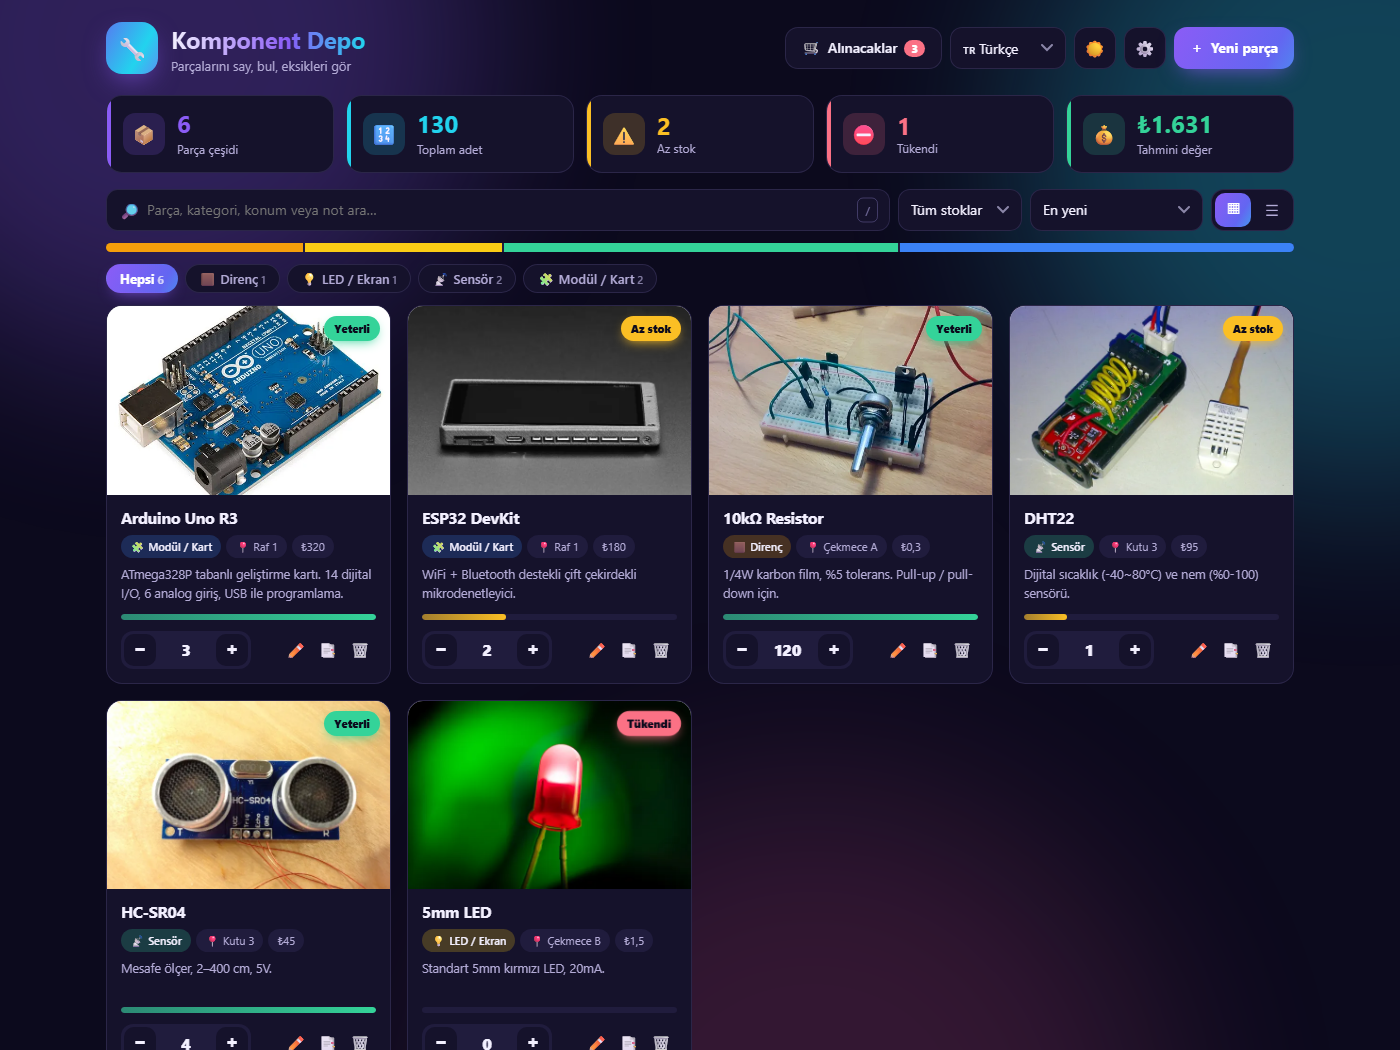
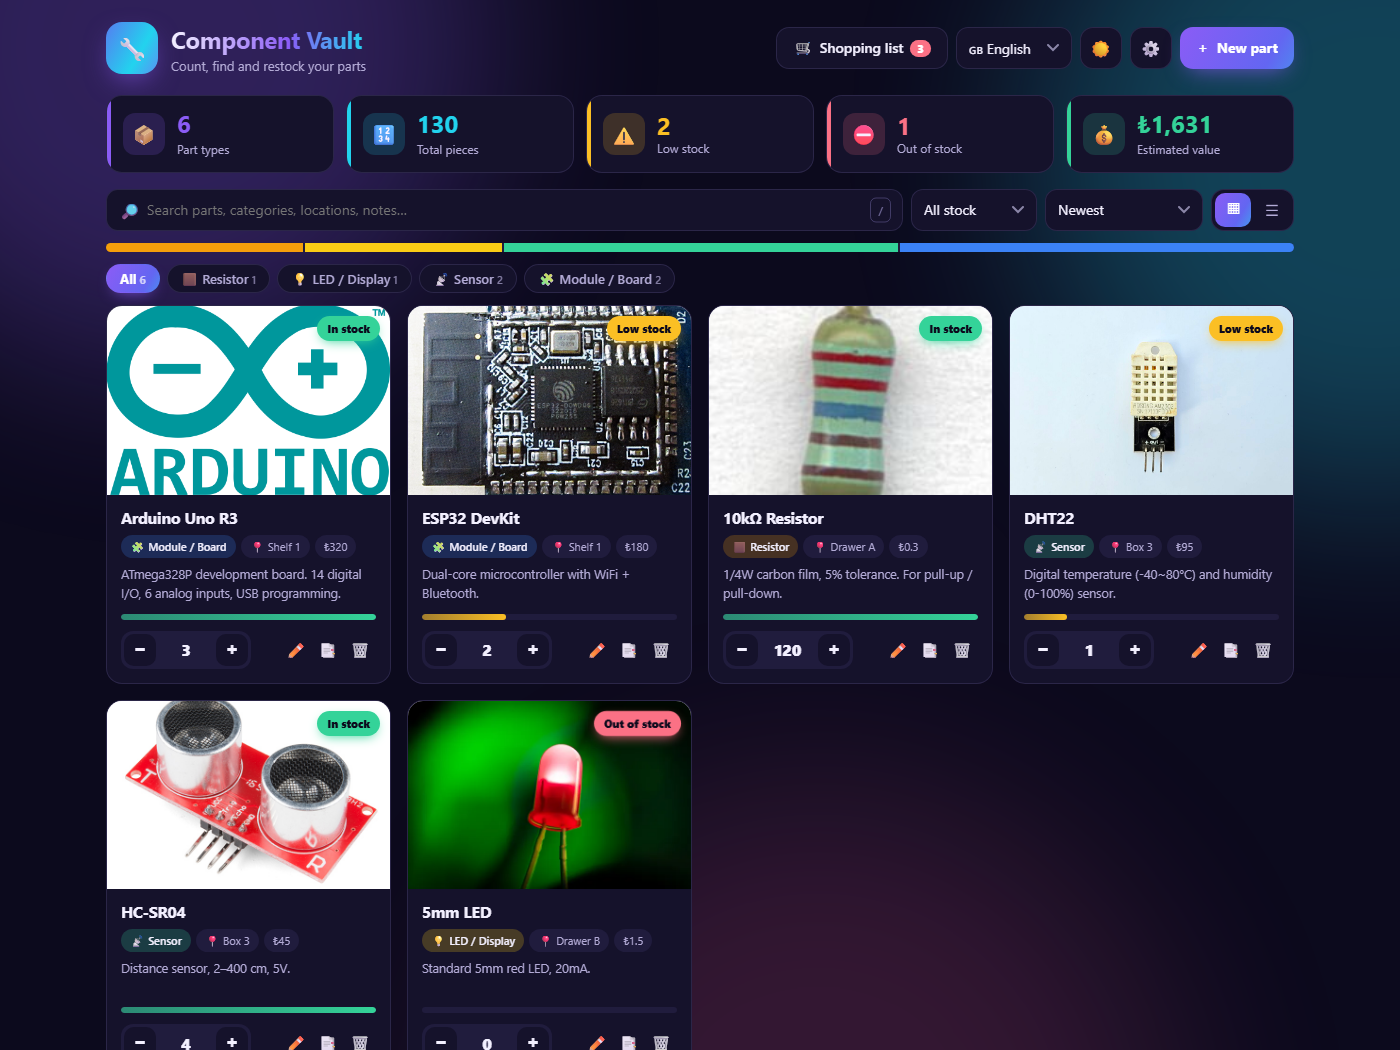
Sitenin varsayılan dili İngilizce, Türkçe ve Almanca seçenek olarak
- Varsayılan dil English; Türkçe ve Deutsch menüden seçilebilir, seçim hatırlanır
- Örnek verilerin konum adları da seçilen dile çevrilir
- ?lang= parametresi örnek veriler oluşturulmadan önce uygulanır
- README Türkçe kaldı; dil notları ve ekran görüntüleri güncellendi

diff --git a/index.html b/index.html
@@ -1,5 +1,5 @@
 <!DOCTYPE html>
-<html lang="tr" data-theme="dark">
+<html lang="en" data-theme="dark">
 <head>
 <meta charset="UTF-8">
 <meta name="viewport" content="width=device-width,initial-scale=1">
@@ -290,7 +290,7 @@ mark{background:color-mix(in srgb,var(--p2) 35%,transparent);color:inherit;borde
     <div class="acts">
       <button class="btn" onclick="shopList()">🛒 <span class="lblx" data-i="shop"></span><span class="cnt" id="shopN"></span></button>
       <select id="langSel" onchange="setLang(this.value)" aria-label="Language">
-        <option value="tr">🇹🇷 Türkçe</option><option value="en">🇬🇧 English</option><option value="de">🇩🇪 Deutsch</option>
+        <option value="en">🇬🇧 English</option><option value="tr">🇹🇷 Türkçe</option><option value="de">🇩🇪 Deutsch</option>
       </select>
       <button class="btn icon" id="thm" onclick="toggleTheme()" data-it="theme">☀</button>
       <button class="btn icon" onclick="openSettings()" data-it="settings">⚙</button>
@@ -350,7 +350,7 @@ backupDone:'Yedek indirildi',importQ:'{n} parça yüklenecek. Mevcut liste deği
 storageFull:'Depolama dolu! Bazı yüklenen fotoğrafları kaldır veya yedek al.',usage:'Kullanılan alan: {u}',
 shortcuts:'Kısayollar:  /  ara  ·  N  yeni parça  ·  Esc  kapat  ·  Shift + (+/−)  10’ar değiştir',gridView:'Kart görünümü',listView:'Liste görünümü',
 c_cap:'Kapasitör',c_res:'Direnç',c_tr:'Transistör',c_ic:'Entegre (IC)',c_led:'LED / Ekran',c_sen:'Sensör',c_mod:'Modül / Kart',c_cab:'Kablo / Konnektör',c_pwr:'Güç',c_mot:'Motor / Röle',c_tool:'Alet / Ekipman',c_oth:'Diğer',
-d1:'ATmega328P tabanlı geliştirme kartı. 14 dijital I/O, 6 analog giriş, USB ile programlama.',d2:'WiFi + Bluetooth destekli çift çekirdekli mikrodenetleyici.',d3:'1/4W karbon film, %5 tolerans. Pull-up / pull-down için.',d4:'Dijital sıcaklık (-40~80°C) ve nem (%0-100) sensörü.',d5:'Standart 5mm kırmızı LED, 20mA.',d6:'Mesafe ölçer, 2–400 cm, 5V.'},
+d1:'ATmega328P tabanlı geliştirme kartı. 14 dijital I/O, 6 analog giriş, USB ile programlama.',d2:'WiFi + Bluetooth destekli çift çekirdekli mikrodenetleyici.',d3:'1/4W karbon film, %5 tolerans. Pull-up / pull-down için.',d4:'Dijital sıcaklık (-40~80°C) ve nem (%0-100) sensörü.',d5:'Standart 5mm kırmızı LED, 20mA.',d6:'Mesafe ölçer, 2–400 cm, 5V.',l1:'Raf 1',l2:'Çekmece A',l3:'Kutu 3',l4:'Çekmece B'},
 en:{app:'Component Vault',tagline:'Count, find and restock your parts',shop:'Shopping list',newPart:'New part',searchPh:'Search parts, categories, locations, notes…',
 allStock:'All stock',st_ok:'In stock',st_low:'Low stock',st_out:'Out of stock',favs:'⭐ Favorites',
 sort_new:'Newest',sort_upd:'Recently updated',sort_az:'Name A–Z',sort_qa:'Qty: low → high',sort_qd:'Qty: high → low',sort_val:'Stock value (high)',
@@ -380,7 +380,7 @@ backupDone:'Backup downloaded',importQ:'Load {n} parts and replace the current l
 storageFull:'Storage full! Remove some uploaded photos or export a backup.',usage:'Storage used: {u}',
 shortcuts:'Shortcuts:  /  search  ·  N  new part  ·  Esc  close  ·  Shift + (+/−)  change by 10',gridView:'Card view',listView:'List view',
 c_cap:'Capacitor',c_res:'Resistor',c_tr:'Transistor',c_ic:'IC / Chip',c_led:'LED / Display',c_sen:'Sensor',c_mod:'Module / Board',c_cab:'Cable / Connector',c_pwr:'Power',c_mot:'Motor / Relay',c_tool:'Tool / Equipment',c_oth:'Other',
-d1:'ATmega328P development board. 14 digital I/O, 6 analog inputs, USB programming.',d2:'Dual-core microcontroller with WiFi + Bluetooth.',d3:'1/4W carbon film, 5% tolerance. For pull-up / pull-down.',d4:'Digital temperature (-40~80°C) and humidity (0-100%) sensor.',d5:'Standard 5mm red LED, 20mA.',d6:'Distance sensor, 2–400 cm, 5V.'},
+d1:'ATmega328P development board. 14 digital I/O, 6 analog inputs, USB programming.',d2:'Dual-core microcontroller with WiFi + Bluetooth.',d3:'1/4W carbon film, 5% tolerance. For pull-up / pull-down.',d4:'Digital temperature (-40~80°C) and humidity (0-100%) sensor.',d5:'Standard 5mm red LED, 20mA.',d6:'Distance sensor, 2–400 cm, 5V.',l1:'Shelf 1',l2:'Drawer A',l3:'Box 3',l4:'Drawer B'},
 de:{app:'Bauteil-Lager',tagline:'Teile zählen, finden und nachkaufen',shop:'Einkaufsliste',newPart:'Neues Teil',searchPh:'Teile, Kategorien, Orte, Notizen suchen…',
 allStock:'Alle Bestände',st_ok:'Vorrätig',st_low:'Knapp',st_out:'Leer',favs:'⭐ Favoriten',
 sort_new:'Neueste',sort_upd:'Zuletzt geändert',sort_az:'Name A–Z',sort_qa:'Menge: aufsteigend',sort_qd:'Menge: absteigend',sort_val:'Lagerwert (hoch)',
@@ -410,7 +410,7 @@ backupDone:'Backup heruntergeladen',importQ:'{n} Teile laden und aktuelle Liste 
 storageFull:'Speicher voll! Hochgeladene Fotos entfernen oder Backup erstellen.',usage:'Belegter Speicher: {u}',
 shortcuts:'Tastenkürzel:  /  Suche  ·  N  neues Teil  ·  Esc  schließen  ·  Shift + (+/−)  in 10er-Schritten',gridView:'Kartenansicht',listView:'Listenansicht',
 c_cap:'Kondensator',c_res:'Widerstand',c_tr:'Transistor',c_ic:'IC / Chip',c_led:'LED / Display',c_sen:'Sensor',c_mod:'Modul / Board',c_cab:'Kabel / Stecker',c_pwr:'Stromversorgung',c_mot:'Motor / Relais',c_tool:'Werkzeug',c_oth:'Sonstiges',
-d1:'Entwicklungsboard mit ATmega328P. 14 digitale I/O, 6 analoge Eingänge, USB-Programmierung.',d2:'Dual-Core-Mikrocontroller mit WLAN + Bluetooth.',d3:'1/4 W Kohleschicht, 5 % Toleranz. Für Pull-up / Pull-down.',d4:'Digitaler Temperatur- (-40~80 °C) und Feuchtesensor (0-100 %).',d5:'Standard-5-mm-LED rot, 20 mA.',d6:'Abstandssensor, 2–400 cm, 5 V.'}
+d1:'Entwicklungsboard mit ATmega328P. 14 digitale I/O, 6 analoge Eingänge, USB-Programmierung.',d2:'Dual-Core-Mikrocontroller mit WLAN + Bluetooth.',d3:'1/4 W Kohleschicht, 5 % Toleranz. Für Pull-up / Pull-down.',d4:'Digitaler Temperatur- (-40~80 °C) und Feuchtesensor (0-100 %).',d5:'Standard-5-mm-LED rot, 20 mA.',d6:'Abstandssensor, 2–400 cm, 5 V.',l1:'Regal 1',l2:'Schublade A',l3:'Box 3',l4:'Schublade B'}
 };
 const LOC={tr:'tr-TR',en:'en-US',de:'de-DE'};
 const CURS={TRY:'₺',USD:'$',EUR:'€',GBP:'£'};
@@ -465,16 +465,15 @@ function migrate(i,n){
     noimg:i.noimg?1:0,hist:Array.isArray(i.hist)?i.hist.slice(0,25):[],upd:+i.upd||+i.id||0};
 }
 function demo(){const n=Date.now();return[
- ['Arduino Uno R3','mod',3,1,'Raf 1',320,'d1'],['ESP32 DevKit','mod',2,2,'Raf 1',180,'d2'],['10kΩ Resistor','res',120,20,'Çekmece A',.3,'d3'],
- ['DHT22','sen',1,2,'Kutu 3',95,'d4'],['HC-SR04','sen',4,1,'Kutu 3',45,'d6'],['5mm LED','led',0,10,'Çekmece B',1.5,'d5']
-].map(([name,cat,qty,low,loc,price,d],k)=>migrate({id:n-k*1000,name,cat,qty,low,loc,price,desc:t(d)},k))}
+ ['Arduino Uno R3','mod',3,1,'l1',320,'d1'],['ESP32 DevKit','mod',2,2,'l1',180,'d2'],['10kΩ Resistor','res',120,20,'l2',.3,'d3'],
+ ['DHT22','sen',1,2,'l3',95,'d4'],['HC-SR04','sen',4,1,'l3',45,'d6'],['5mm LED','led',0,10,'l4',1.5,'d5']
+].map(([name,cat,qty,low,loc,price,d],k)=>migrate({id:n-k*1000,name,cat,qty,low,loc:t(loc),price,desc:t(d)},k))}
 function load(){
-  lang=ls.get(K_LANG)||((navigator.language||'').startsWith('de')?'de':(navigator.language||'').startsWith('en')?'en':'tr');
+  /* URL ile ayar: ?lang=tr&theme=light&add=ESP32 */
+  const P=new URLSearchParams(location.search);
+  lang=I18N[P.get('lang')]?P.get('lang'):I18N[ls.get(K_LANG)]?ls.get(K_LANG):'en'; /* varsayılan dil: İngilizce */
   cur=ls.get(K_CUR)||'TRY';view=ls.get(K_VIEW)||'grid';
   try{const d=ls.get(K_DATA);items=d?JSON.parse(d).map(migrate):demo()}catch(e){items=demo()}
-  /* URL ile ayar: ?lang=en&theme=light&add=ESP32 */
-  const P=new URLSearchParams(location.search);
-  if(I18N[P.get('lang')])lang=P.get('lang');
   setTheme(['dark','light'].includes(P.get('theme'))?P.get('theme'):ls.get(K_THEME)||'dark',true);
   applyStatic();render();autoFill();
   if(P.get('add'))openForm(null,P.get('add'));
@@ -694,7 +693,7 @@ function openSettings(){
   const th=document.documentElement.dataset.theme,sz=(ls.get(K_DATA)||'').length*2,lim=5*1024*1024;
   const fmt=b=>b>1048576?(b/1048576).toFixed(2)+' MB':Math.ceil(b/1024)+' KB';
   showM(`${mhead('⚙ '+t('settings'))}<div class="set">
-   <div class="row"><div class="grp" style="flex:1"><div class="lbl">🌐 ${t('language')}</div><select onchange="setLang(this.value)">${[['tr','🇹🇷 Türkçe'],['en','🇬🇧 English'],['de','🇩🇪 Deutsch']].map(([v,l])=>`<option value="${v}"${v===lang?' selected':''}>${l}</option>`).join('')}</select></div>
+   <div class="row"><div class="grp" style="flex:1"><div class="lbl">🌐 ${t('language')}</div><select onchange="setLang(this.value)">${[['en','🇬🇧 English'],['tr','🇹🇷 Türkçe'],['de','🇩🇪 Deutsch']].map(([v,l])=>`<option value="${v}"${v===lang?' selected':''}>${l}</option>`).join('')}</select></div>
    <div class="grp" style="flex:1"><div class="lbl">💱 ${t('currency')}</div><select onchange="cur=this.value;ls.set(K_CUR,cur);render();openSettings()">${Object.entries(CURS).map(([c,s])=>`<option value="${c}"${c===cur?' selected':''}>${s} ${c}</option>`).join('')}</select></div></div>
    <div class="grp"><div class="lbl">🎨 ${t('theme')}</div><div class="seg" style="display:inline-flex"><button class="${th==='dark'?'on':''}" style="width:auto;padding:0 14px" onclick="setTheme('dark');openSettings()">${t('dark')}</button><button class="${th==='light'?'on':''}" style="width:auto;padding:0 14px" onclick="setTheme('light');openSettings()">${t('light')}</button></div></div>
    <div class="grp"><div class="lbl">💾 ${t('data')}</div><div class="btns">
